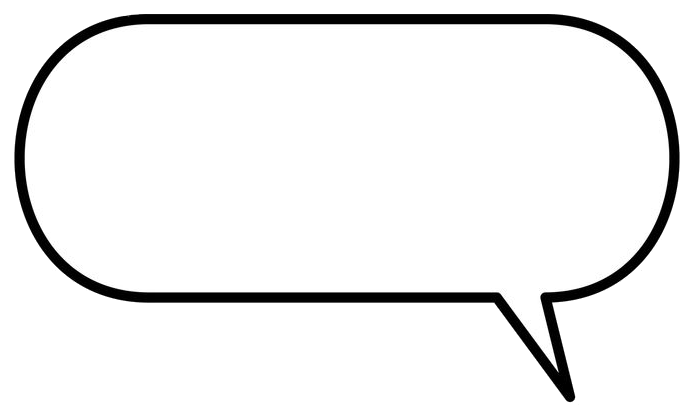
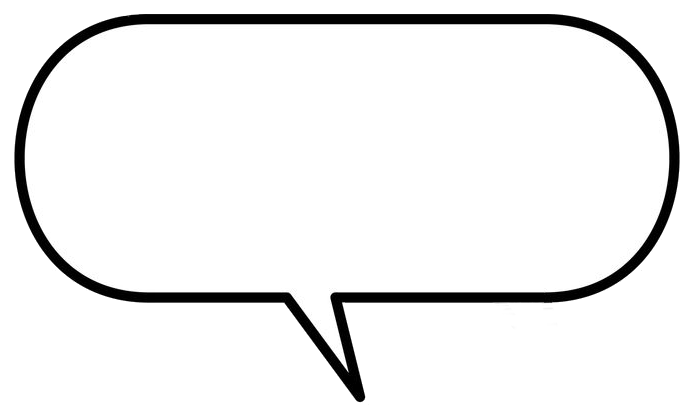
modif messages d'erreur inscription

Changed region(s): [[0.699, 0.6957, 0.8509, 0.9855], [0.3951, 0.6957, 0.547, 0.9855]]

diff --git a/public/style.css b/public/style.css
@@ -136,30 +136,39 @@ p {
 }
 
 .instit {
-    height: 50%;
+    height: 65%;
+}
+
+.imageErreur {
     position: absolute;
     right: 0;
     bottom: 0;
+    height: 80%;
+    display: flex;
+    flex-direction: column;
+    align-items: flex-end;
+    justify-content: flex-end;
 }
 
 .bulle {
-    height: 30%;
-    position: absolute;
-    bottom: 48%;
-    right: 12vh;
+    height: 100%;
+}
+
+.bulleEtMessage {
+    position: relative;
+    height: 35%;
+    display: flex;
+    align-items: center;
 }
 
 #divErreur {
+    position: absolute;
+    top: 39%;
+    left: 50%;
+    transform: translate(-50%, -50%);
+    width: 80%;
     color: black;
     font-family: Apple Chancery, cursive;
-    position: absolute;
-    right: 17vh;
-    bottom: 59%;
-    display: flex;
-    width: 40vh;
-    justify-content: center;
-    flex-direction: column;
-    height: 15%;
 }
 
 /*********************************************/
@@ -428,26 +437,23 @@ label {
     }
 }
 
-/*@media screen and (max-width: 500px) {*/
-/*    */
-/*}*/
-
-@media (orientation: portrait) {
-    /* Styles pour les écrans en mode portrait */
-    .instit {
-        height: 35%;
-    }
-
-    .bulle {
-        height: 20%;
-        bottom: 34%;
-        right: 8vh;
-    }
-
-    #divErreur {
-        right: 11vh;
-        bottom: 42%;
-        width: 27vh;
-        height: 9%;
-    }
+@media screen and (max-height: 360px) {
+    .erreur {
+               font-size: 0.7rem;
+            }
 }
+
+/*@media (orientation: portrait) {*/
+/*    !* Styles pour les écrans en mode portrait *!*/
+/*    .instit {*/
+/*        height: 35%;*/
+/*    }*/
+
+/*    .bulle {*/
+/*        height: 20%;*/
+/*        bottom: 34%;*/
+/*        right: 8vh;*/
+/*    }*/
+
+/*
+/*}*/

diff --git a/public/js/messages.js b/public/js/messages.js
@@ -20,16 +20,16 @@ document.addEventListener('DOMContentLoaded', () => {
         }
         divErreur.appendChild(message)
 
-        setTimeout( () => {
-            instit.classList.add('displayNone')
-            bulle.classList.add('displayNone')
-            message.remove()
-        }, 8000)
-
-        document.addEventListener('click', () => {
-            instit.classList.add('displayNone')
-            bulle.classList.add('displayNone')
-            message.remove()
-        })
+        // setTimeout( () => {
+        //     instit.classList.add('displayNone')
+        //     bulle.classList.add('displayNone')
+        //     message.remove()
+        // }, 8000)
+        //
+        // document.addEventListener('click', () => {
+        //     instit.classList.add('displayNone')
+        //     bulle.classList.add('displayNone')
+        //     message.remove()
+        // })
     }
 })

diff --git a/src/Form/RegistrationFormType.php b/src/Form/RegistrationFormType.php
@@ -52,7 +52,7 @@ class RegistrationFormType extends AbstractType
                     ]),
                     new Length([
                         'min' => 10,
-                        'minMessage' => 'Le mot de passe doit faire {{ limit }} caractères mini, merci !',
+                        'minMessage' => 'Au moins {{ limit }} caractères pour le mot de passe, merci',
                         // max length allowed by Symfony for security reasons
                         'max' => 4096,
                     ]),

diff --git a/src/Entity/User.php b/src/Entity/User.php
@@ -43,7 +43,7 @@ class User implements UserInterface, PasswordAuthenticatedUserInterface
     #[Assert\Range([
         'min' => 1900,
         'max' => 2020,
-        'notInRangeMessage' => 'L\'année de naissance doit être comprise entre {{ min }} et {{ max }}',
+        'notInRangeMessage' => 'L\'année de naissance doit être entre {{ min }} et {{ max }}',
     ])]
     private ?int $anneeNaissance = null;
 
